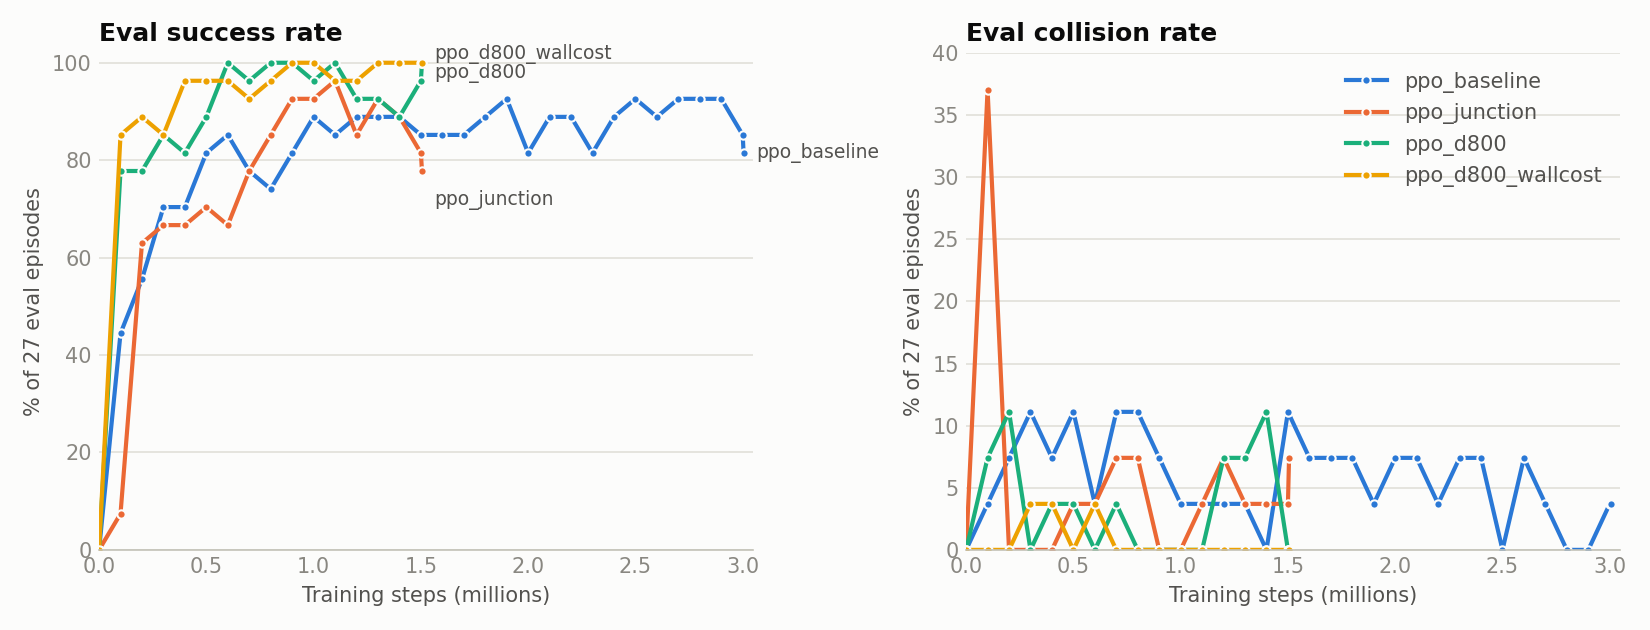
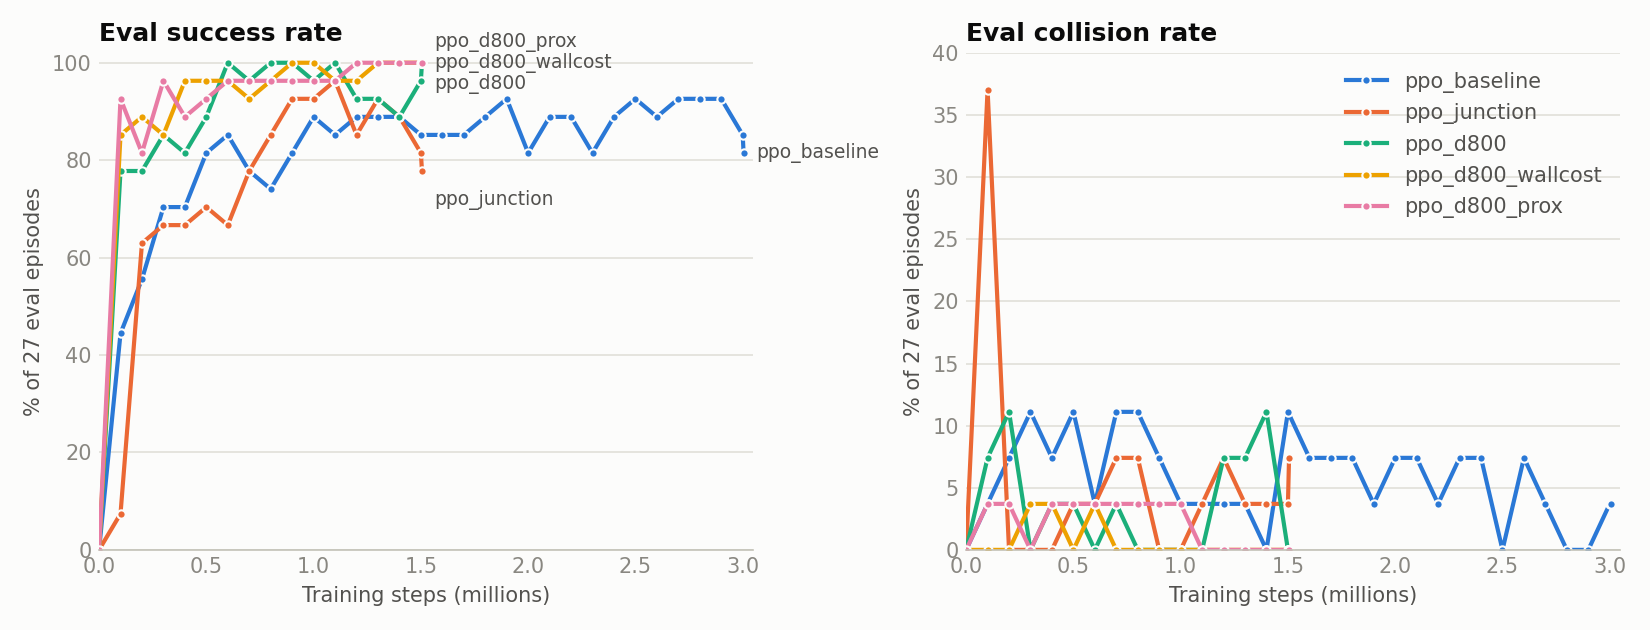
Document ppo_d800_prox, the new recommended model
96.5% success / 3.0% collisions / 8.4% reversing on 200 held-out goals,
matching ppo_junction on the real-sensor task. Adds it to docs/MODELS.md
(settings, training stats, learning curves, collision breakdown), the README
results and download step, and the WORKLOG.

diff --git a/docs/MODELS.md b/docs/MODELS.md
@@ -4,8 +4,9 @@ Every navigation policy trained so far: what task each one learned, how it was t
 scored. All numbers below were measured on 2026-10-15. Each model was evaluated with the code it
 was trained on, so each row is scored on its own task.
 
-**Current recommendation: `ppo_d800_wallcost`**, best checkpoint. It is the newest model that
-matches the code on `main` (real LiDAR model, slow reverse). Download it from the
+**Current recommendation: `ppo_d800_prox`**, best checkpoint. It matches the code on `main` (real
+LiDAR model, slow reverse, near-wall cost, proximity penalty), and it ties the best success and
+collision rates of any model while reversing 8% of the time instead of 51%. Download it from the
 [`models-2026-10-15` release](https://github.com/leonjorge010/cbu-autonomous-robot/releases/tag/models-2026-10-15).
 
 ## Summary
@@ -19,15 +20,18 @@ evaluation (random start heading, goals 1–25 m away along the hallway).
 | `ppo_junction` | old sensor, fast reverse | **96.0%** | **3.0%** | 1.0% | 50.5% | ✅ (also in Gazebo) |
 | `ppo_d800` (best) | real LiDAR, slow reverse | 90.5% | 8.0% | 1.5% | 8.0% | ✅ |
 | `ppo_d800` (final) | real LiDAR, slow reverse | 93.0% | 7.0% | 0.0% | 8.6% | ✅ |
-| `ppo_d800_wallcost` (best) ⭐ | + corner-safe reward | 92.0% | 5.5% | 2.5% | 10.7% | ✅ |
-| `ppo_d800_wallcost` (final) | + corner-safe reward | 91.5% | 8.5% | 0.0% | **9.2%** | ✅ |
+| `ppo_d800_wallcost` (best) | + corner-safe route | 92.0% | 5.5% | 2.5% | 10.7% | ✅ |
+| `ppo_d800_wallcost` (final) | + corner-safe route | 91.5% | 8.5% | 0.0% | 9.2% | ✅ |
+| `ppo_d800_prox` (best) ⭐ | + proximity penalty | **96.5%** | **3.0%** | 0.5% | 8.4% | ✅ |
+| `ppo_d800_prox` (final) | + proximity penalty | 96.0% | **3.0%** | 1.0% | **8.2%** | ✅ |
 
 The newer models do a slightly harder task (noisy real sensor, slow reverse), so the two groups
 are not directly comparable. What changed:
-- **Reversing dropped from ~51% to ~9% of steps.** The old models drove backward half the time
+- **Reversing dropped from ~51% to ~8% of steps.** The old models drove backward half the time
   instead of turning around.
-- **Learning got faster:** 90% eval success at 0.4–0.6M steps vs 0.9–1.9M.
-- **Collisions are still the open problem** at 5.5–8.5%, against the old 3%. See
+- **Learning got faster:** 90% eval success at 0.1–0.6M steps vs 0.9–1.9M.
+- **Collisions rose with the real sensor, then came back down.** They went from the old 3% to
+  5.5–8.5%, and the proximity penalty brought them back to 3%. See
   [Collision analysis](#collision-analysis).
 
 ## The task each model learned
@@ -35,17 +39,18 @@ are not directly comparable. What changed:
 Every model drives from a start pose to a goal point using only LiDAR and the goal's relative
 position. Settings that differ between models are in bold.
 
-| Setting | `ppo_baseline` | `ppo_junction` | `ppo_d800` | `ppo_d800_wallcost` |
-|---|---|---|---|---|
-| LiDAR model | ideal | ideal | **LDROBOT STL-27L** | **LDROBOT STL-27L** |
-| Scan points / range | 360 / 0.15–12 m | 360 / 0.15–12 m | **2160 / 0.03–25 m** | **2160 / 0.03–25 m** |
-| Range the policy sees | 12 m | 12 m | **10 m** | **10 m** |
-| Range noise (std dev) | 1.0 cm | 1.0 cm | **1.5 cm** | **1.5 cm** |
-| Missing returns (training) | none | none | **3% of beams** | **3% of beams** |
-| Max forward / reverse speed | 0.5 / 0.5 m/s | 0.5 / 0.5 m/s | 0.5 / **0.15** m/s | 0.5 / **0.15** m/s |
-| Training goal distance | 1–15 m | **1–25 m** | 1–25 m | 1–25 m |
-| Junction-crossing episodes | 0% | **30%** | 30% | 30% |
-| Near-wall path cost | none | none | none | **within 0.6 m of a wall (3× at the collision boundary)** |
+| Setting | `ppo_baseline` | `ppo_junction` | `ppo_d800` | `ppo_d800_wallcost` | `ppo_d800_prox` |
+|---|---|---|---|---|---|
+| LiDAR model | ideal | ideal | **LDROBOT STL-27L** | STL-27L | STL-27L |
+| Scan points / range | 360 / 0.15–12 m | 360 / 0.15–12 m | **2160 / 0.03–25 m** | 2160 / 0.03–25 m | 2160 / 0.03–25 m |
+| Range the policy sees | 12 m | 12 m | **10 m** | 10 m | 10 m |
+| Range noise (std dev) | 1.0 cm | 1.0 cm | **1.5 cm** | 1.5 cm | 1.5 cm |
+| Missing returns (training) | none | none | **3% of beams** | 3% of beams | 3% of beams |
+| Max forward / reverse speed | 0.5 / 0.5 m/s | 0.5 / 0.5 m/s | 0.5 / **0.15** m/s | 0.5 / 0.15 m/s | 0.5 / 0.15 m/s |
+| Training goal distance | 1–15 m | **1–25 m** | 1–25 m | 1–25 m | 1–25 m |
+| Junction-crossing episodes | 0% | **30%** | 30% | 30% | 30% |
+| Near-wall path cost | none | none | none | **within 0.6 m of a wall** | within 0.6 m of a wall |
+| Proximity penalty | none | none | none | none | **up to 0.5/step within 0.3 m** |
 
 **Same for every model**
 - **Observation (41 values):** 36 LiDAR distances, one every 10°, divided by the max range. Goal
@@ -55,12 +60,16 @@ position. Settings that differ between models are in bold.
 - **Reward per step:** 10 × (decrease in path distance to the goal) − 0.01. Reaching the goal
   (within 0.3 m) gives +10. A collision gives −20. Both end the episode.
   - The path distance goes *around* walls, not straight through them.
-  - In `ppo_d800_wallcost` it charges extra near walls. The cheapest route then rounds corners
-    0.46 m from the wall instead of 0.25 m.
+  - From `ppo_d800_wallcost` on, it charges extra near walls: 1 + 8 × (1 − c / 0.6)² per meter for a
+    point c meters from a wall, which is 3× at the collision boundary. The cheapest route then
+    rounds corners 0.46 m from the wall instead of 0.25 m.
+  - `ppo_d800_prox` also subtracts 0.5 × (1 − c / 0.3)² each step that the gap c between the robot's
+    edge and the nearest obstacle is under 0.3 m. That's 0.13 at 0.15 m and 0.35 at the 5 cm
+    collision margin. For comparison, driving forward at full speed earns about 0.5 per step.
 - **Collision:** anything within 5 cm of the 0.50 × 0.49 m robot footprint.
 - **Episode time limit:** 2 × the time to drive the path distance at full speed, plus 10 s.
 
-## Training setup (identical for all four)
+## Training setup (identical for all five)
 
 | | |
 |---|---|
@@ -84,15 +93,17 @@ position. Settings that differ between models are in bold.
 | `ppo_baseline` | 3.0M | 36 min | 1.9M | 93% at 1.9M |
 | `ppo_junction` | 1.5M | 14 min | 0.9M | 96% at 1.1M |
 | `ppo_d800` | 1.5M | 27 min | 0.6M | 100% at 0.6M |
-| `ppo_d800_wallcost` | 1.5M | 26 min | **0.4M** | 100% at 0.9M |
+| `ppo_d800_wallcost` | 1.5M | 26 min | 0.4M | 100% at 0.9M |
+| `ppo_d800_prox` | 1.5M | **11 min** | **0.1M** | 100% at 1.2M (and every eval after) |
 
-Wall times are on an RTX 4060 laptop (CPU only, 22 threads). The two D800 runs were slowed by
-other jobs sharing the CPU, so their times aren't a fair speed comparison.
+Wall times are on an RTX 4060 laptop (CPU only, 22 threads). `ppo_d800` and `ppo_d800_wallcost` were
+slowed by other jobs sharing the CPU. `ppo_d800_prox` had the machine to itself, which is what a
+1.5M-step run normally takes.
 
 ![Learning curves](learning_curves.png)
 
-**The 27-episode evaluation is too small to rank models.** Both D800 runs hit 100% there but scored
-90–93% on the 200-goal test. Use the curves to see learning speed and stability, and the 200-goal
+**The 27-episode evaluation is too small to rank models.** All three D800 runs hit 100% there but
+scored 90–96.5% on the 200-goal test. Use the curves to see learning speed and stability, and the 200-goal
 test to compare final quality.
 
 ## Detailed held-out results
@@ -108,8 +119,11 @@ the distance driven ÷ the shortest path distance at the start.
 | `ppo_d800` final | 93.0% | 7.0% | 0.0% | 16.5 s | 1.04 | 8.6% | +74.2 |
 | `ppo_d800_wallcost` best | 92.0% | 5.5% | 2.5% | 17.4 s | 1.03 | 10.7% | +76.1 |
 | `ppo_d800_wallcost` final | 91.5% | 8.5% | 0.0% | 16.6 s | 1.00 | 9.2% | +74.1 |
+| `ppo_d800_prox` best | 96.5% | 3.0% | 0.5% | 16.3 s | 0.99 | 8.4% | +78.8 |
+| `ppo_d800_prox` final | 96.0% | 3.0% | 1.0% | 16.2 s | 0.98 | 8.2% | +78.8 |
 
-Returns from `ppo_d800_wallcost` use a different reward, so they can't be compared with the other rows.
+Returns from `ppo_d800_wallcost` and `ppo_d800_prox` use different rewards, so returns can't be
+compared across those rows.
 
 **Doors from spawn:** every model reaches all 7 classroom doors with no collisions, in 29.4–30.5 s
 on average. **Gazebo:** `ppo_baseline` and `ppo_junction` reached 7/7 doors in Gazebo, with
@@ -123,6 +137,7 @@ Where the 2D collisions happen on the 200-goal test:
 |---|---|---|---|---|
 | `ppo_d800` final | 14 | **12** | 1 | 1 (fountain area, x ≈ 18) |
 | `ppo_d800_wallcost` best | 11 | 3 | **6** | 2 (fountain area, x ≈ 18) |
+| `ppo_d800_prox` best | 6 | 1 | 2 | 2 (fountain area), 1 (end wall, started 0.47 m away) |
 
 - **In `ppo_d800`, the reward itself caused the collisions.** The route the reward follows passed
   0.25 m from the corners, but anything closer than 0.295 m counts as a collision. The near-wall
@@ -130,16 +145,19 @@ Where the 2D collisions happen on the 200-goal test:
 - **The collisions then moved to the west corner.** Most come from episodes that start inside the
   junction facing a random direction. The robot is nearly always at full speed (0.5 m/s) when it
   hits. At that speed its tightest turn has a 0.5 m radius, so it swings wide into the wall.
-- **What's missing:** nothing in the reward says "slow down near walls."
-
-The next experiment is a **proximity penalty**: a small per-step cost when the LiDAR shows a wall
-within ~0.25 m of the robot's edge.
+- **The proximity penalty supplied the missing signal.** Nothing in the earlier rewards said "slow
+  down near walls." The penalty brought corner hits from 9 to 3 and total collisions from 11 to 6.
+  Most of what's left comes from awkward starts, such as inside the junction or facing a wall.
+- **The water fountain** sticks out into the corridor and now causes as many hits as the corners.
+  Training with random obstacles, the next planned step, should help with it.
 
 ## Caveats
 
 - **One seed per setup.** Differences of a few percent (e.g. 92.0% vs 93.0%) are within
   run-to-run noise. Repeating each setup with 2–3 seeds is still to do.
 - **2D only for the D800 models.** Gazebo evaluation is still pending.
+- **The proximity penalty in Gazebo** measures distance from the scan, while 2D uses the map. They
+  agree to about one map cell (5 cm), and the policy never sees the penalty at run time.
 - **Every model trained on one hallway map** with no people or moving obstacles. These numbers
   don't show how a policy handles a new building.
 
@@ -153,9 +171,11 @@ every setting.
 | `ppo_baseline` | `5cb4ade` | `ros2 run cash_rl train --name ppo_baseline --timesteps 3000000` |
 | `ppo_junction` | `5cb4ade` | `ros2 run cash_rl train --name ppo_junction --timesteps 1500000 --goal-distance-range 1 25 --junction-prob 0.3` |
 | `ppo_d800` | `14351b5` | same as `ppo_junction` |
-| `ppo_d800_wallcost` | `b333324` or later | same as `ppo_junction` |
+| `ppo_d800_wallcost` | `b333324` to `4081d99` | same as `ppo_junction` |
+| `ppo_d800_prox` | `5f4369e` or later | same as `ppo_junction` |
 
 Evaluate any model with
 `ros2 run cash_rl evaluate runs/<name>/best_model.zip --random 200`. Run the old models' code
 (`git checkout 5cb4ade`) to score them on their own task. On current code they score worse,
-because they rely on fast reverse.
+because they rely on fast reverse. All D800 models share the same observation and action, so they
+run unchanged on current code. Only their training reward differed.

diff --git a/README.md b/README.md
@@ -43,11 +43,12 @@ Stack: Ubuntu 24.04 · ROS 2 Jazzy · Gazebo Harmonic · Stable-Baselines3 (PyTo
 | Model | Sensor model | Goals reached (200 unseen) | Collisions | Time spent reversing |
 |---|---|---|---|---|
 | `ppo_junction` | ideal LiDAR, fast reverse | 96% | 3% | 51% |
-| `ppo_d800_wallcost` (current) | real STL-27L LiDAR, slow reverse | 92% | 5.5% | 11% |
+| `ppo_d800_prox` (current) | real STL-27L LiDAR, slow reverse, keeps clear of walls | 96.5% | 3% | 8% |
 
-All models reach all 7 doors. Open problem: the current model still clips the junction corners at
-full speed (a proximity penalty is next). After that: random obstacles, then pedestrians, then a
-layout it has never seen.
+All models reach all 7 doors. The current model matches the old best while using the realistic
+sensor and almost never reversing. Remaining collisions are mostly at the water fountain and from
+awkward start poses. Next: Gazebo check of the new models, then random obstacles, then pedestrians,
+then a layout it has never seen.
 
 ## Setup (once per computer)
 
@@ -104,7 +105,7 @@ tensorboard --logdir ~/ros2_ws/runs    # open http://localhost:6006 and look at 
 Each run also has its `config.json` (every setting) and `eval.csv` (learning curve).
 ```bash
 cd ~/ros2_ws
-for run in ppo_d800_wallcost ppo_d800; do
+for run in ppo_d800_prox ppo_d800_wallcost ppo_d800; do
   mkdir -p runs/$run
   curl -L -o runs/$run/best_model.zip \
     https://github.com/leonjorge010/cbu-autonomous-robot/releases/download/models-2026-10-15/${run}_best_model.zip

diff --git a/WORKLOG.md b/WORKLOG.md
@@ -32,7 +32,11 @@ for each session: what changed, results with numbers, and what's still open.
 - `ppo_d800_wallcost` (+ near-wall cost): 92.0% / 5.5% (best). East-corner hits fell from 12 to 3, but
   collisions moved to the west corner, always at full speed. Reached 90% eval at 0.4M steps
   (`ppo_junction`: 0.9M).
-- Released both as `models-2026-10-15`.
+- `ppo_d800_prox` (+ proximity penalty: up to 0.5 per step when the footprint is within 0.3 m of an
+  obstacle): **96.5% / 3.0% / 8.4% reversing** (best), matching `ppo_junction`'s 96% / 3% on the
+  harder task. Corner hits fell from 9 to 3; the 6 left are 2 fountain, 3 corners and 1 end wall.
+  Trained in 11 min with the CPU to itself. 100% on every periodic eval from 1.2M steps.
+- Released all three as `models-2026-10-15`.
 
 **Lessons**
 - Don't run two trainings or several evaluations at once. PyTorch takes all 22 threads per process,
@@ -40,8 +44,7 @@ for each session: what changed, results with numbers, and what's still open.
 - The 27-episode periodic eval can't rank models (100% there, 90–93% on 200 goals).
 
 **Open**
-- Proximity penalty (slow down near walls) to fix the corner collisions.
-- Gazebo eval of the D800 models; 2–3 seeds per setup (cancelled today for time).
+- Gazebo eval of the D800 models (`ppo_d800_prox` first); 2–3 seeds per setup (cancelled today for time).
 - LiDAR mounting position and height on the real chassis.
 
 ## 2026-10-14
